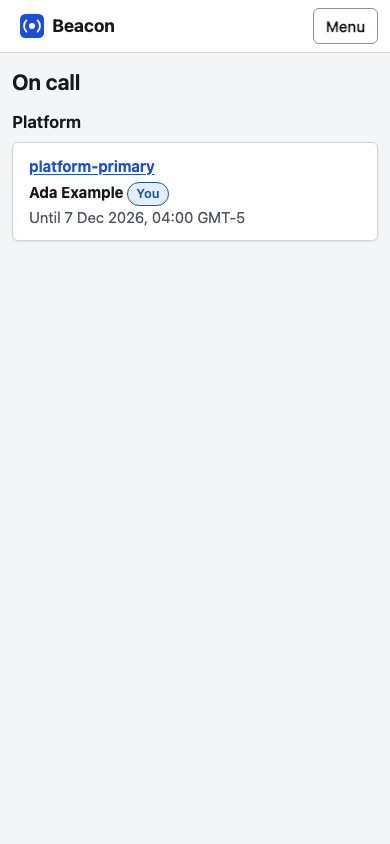
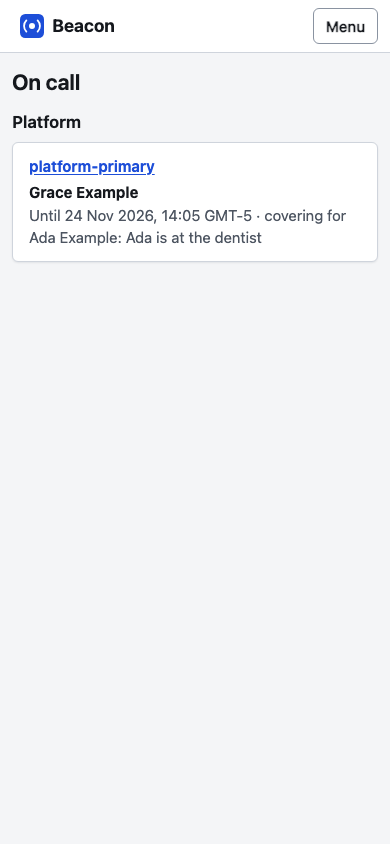
docs: describe overrides in the web interface
Closes #41

Changed region(s): [[0.0308, 0.2156, 0.6769, 0.3081], [0.6769, 0.2464, 0.8923, 0.2773]]

diff --git a/README.md b/README.md
@@ -10,7 +10,7 @@
 Beacon is an open-source alerting and on-call platform. It takes alerts from Prometheus-style sources and gets them to the right on-call person, with schedules, escalation and acknowledgement in one tool that is easy to run.
 
 > [!WARNING]
-> Beacon is at an early stage. It reads its [configuration](docs/configuration.md) from YAML files, signs people in through an [identity provider](docs/access.md), receives alerts from [Alertmanager](docs/alertmanager.md), [Grafana alerting](docs/grafana.md) and through a [JSON webhook](docs/webhook.md), tracks their [state](docs/alert-lifecycle.md), [routes](docs/configuration.md#how-an-alert-is-routed) them by label, [groups](docs/configuration.md#grouping) related alerts and [escalates](docs/escalation.md) each group through its policy: it pages the person on call, the team or a [Slack](docs/slack.md) or [Discord](docs/discord.md) channel, in chat and by [email](docs/email.md), and posts to an [outbound webhook](docs/outbound-webhook.md), step by step, until someone acknowledges, snoozes or resolves the alert from Slack or Discord, and it [attributes](docs/access.md#chat-accounts) those actions to the Beacon user behind the chat account. It runs [on-call rotations](docs/schedules.md), records every shift, takes [overrides](docs/schedules.md#overrides), answers [who is on call](docs/schedules.md#who-is-on-call) and [previews](docs/schedules.md#preview-a-change) what a change to a schedule would move. It has a [web interface](docs/web.md), embedded in the binary, where people sign in, watch the alerts and acknowledge, snooze and resolve them, and see who is on call and the shifts of each schedule; the pages for overrides and silences are being added to it. Neither chat integration has been tried against the real service. The [requirements](docs/requirements.md) describe what is planned.
+> Beacon is at an early stage. It reads its [configuration](docs/configuration.md) from YAML files, signs people in through an [identity provider](docs/access.md), receives alerts from [Alertmanager](docs/alertmanager.md), [Grafana alerting](docs/grafana.md) and through a [JSON webhook](docs/webhook.md), tracks their [state](docs/alert-lifecycle.md), [routes](docs/configuration.md#how-an-alert-is-routed) them by label, [groups](docs/configuration.md#grouping) related alerts and [escalates](docs/escalation.md) each group through its policy: it pages the person on call, the team or a [Slack](docs/slack.md) or [Discord](docs/discord.md) channel, in chat and by [email](docs/email.md), and posts to an [outbound webhook](docs/outbound-webhook.md), step by step, until someone acknowledges, snoozes or resolves the alert from Slack or Discord, and it [attributes](docs/access.md#chat-accounts) those actions to the Beacon user behind the chat account. It runs [on-call rotations](docs/schedules.md), records every shift, takes [overrides](docs/schedules.md#overrides), answers [who is on call](docs/schedules.md#who-is-on-call) and [previews](docs/schedules.md#preview-a-change) what a change to a schedule would move. It has a [web interface](docs/web.md), embedded in the binary, where people sign in, watch the alerts and acknowledge, snooze and resolve them, see who is on call and the shifts of each schedule, and arrange cover with overrides; the pages for silences and for what the configuration defines are being added to it. Neither chat integration has been tried against the real service. The [requirements](docs/requirements.md) describe what is planned.
 
 ## What Beacon will do
 

diff --git a/docs/web.md b/docs/web.md
@@ -28,10 +28,10 @@ The page offers the ways to sign in that the configuration has ([[access]]): the
 | Alerts | The alerts, newest first, with filters for state, severity and team, and the buttons to acknowledge, snooze and resolve |
 | An alert | What it says (labels, annotations, links), what routing decided for it, its group, and its timeline, with the same buttons |
 | On call | Who is on call now, for every schedule, team by team |
-| A schedule | Who is on call, the shifts of four weeks at a time, past and to come, and the rotation as the files define it |
+| A schedule | Who is on call, the shifts of four weeks at a time, past and to come, its overrides, with the ways to add and remove one, and the rotation as the files define it |
 | Account | Who you are signed in as, your role, and until when the session lasts |
 
-The pages for overrides, silences and the rest of what the configuration defines follow; this page grows with them.
+The pages for silences and the rest of what the configuration defines follow; this page grows with them.
 
 What the configuration files define is read-only in the app, as in the API: it is changed in the files ([[configuration]]).
 
@@ -65,6 +65,16 @@ The page of a schedule shows four weeks at a time, starting with last week: a ba
 **Times are in the time zone of your device**, like everywhere in the app. A rotation hands over in the zone its schedule names, so the page states that zone, and a handoff at 09:00 in London is shown at 04:00 to someone in Toronto.
 
 The **rotation** is shown as the files define it, with the members in order, and is marked as managed in the configuration files: it cannot be changed here. When the files hold a changed rotation that has not taken over yet, the page shows it too, with the moment it takes over ([[schedules#Changing a schedule]]).
+
+### Overrides
+
+An override puts someone on call for a period in place of whoever the rotation has ([[schedules#Overrides]]). The page of a schedule lists the overrides in force and to come, with who covers, when, why and who added each.
+
+![Adding an override](images/web/override-light.png)
+
+**Add an override** asks who covers, when it ends, and optionally when it starts (now, when left empty) and why. The times are typed in the zone of your device. Beacon checks the request, and what it refuses is said in the dialog, at the field at fault. **Remove** asks first, because it changes who is on call: an override in force ends at once, and whoever is beneath takes over, an earlier override or else the rotation.
+
+Members and admins alike add and remove overrides, for themselves and for others. Who is on call, the calendar and the on-call page follow at once.
 
 ## Look and use
 

diff --git a/AGENTS.md b/AGENTS.md
@@ -178,6 +178,7 @@ CI (`.github/workflows/ci.yml`) runs the build, lint, test and module checks on 
 - The views of alerts ask again at `pollInterval` (the API has no push channel), keep what they have when a refresh fails and say so, and offer exactly the actions the API lists for an alert (`actions`): the app never works out by itself what a state allows.
 - **Times are shown in the viewer's zone** (`formatDateTime`), with the zone named. A view of a schedule also states the schedule's own zone. Weeks and days are found from calendar dates in `web/src/pages/schedules/calendar.ts`, never by adding hours, and its tests run in a zone with clock changes (`TZ` in `vite.config.ts`).
 - The app never works out who is on call: it shows `on_call` and the shifts the API answers, which already hold overrides and pending changes.
+- A form sends what was typed and lets the API judge it: the app does not repeat the API's rules. A refusal is shown with the API's message, and the field the API names is marked (`aria-invalid`). A change that takes something away, such as removing an override, asks first in a dialog.
 - What the configuration defines is read-only in the app: such a view says that the object is managed in the configuration files and offers no control that changes it.
 - Everything is served from the binary: no fonts, scripts, images or requests to another host, and no telemetry.
 - Accessibility is part of done: semantic elements, a label for every control, a visible focus ring, text contrast of at least 4.5:1 in both themes, and a layout that works at 390 pixels. A new view gets `expectAccessible` in a browser test, which runs axe in both themes and at phone width.
